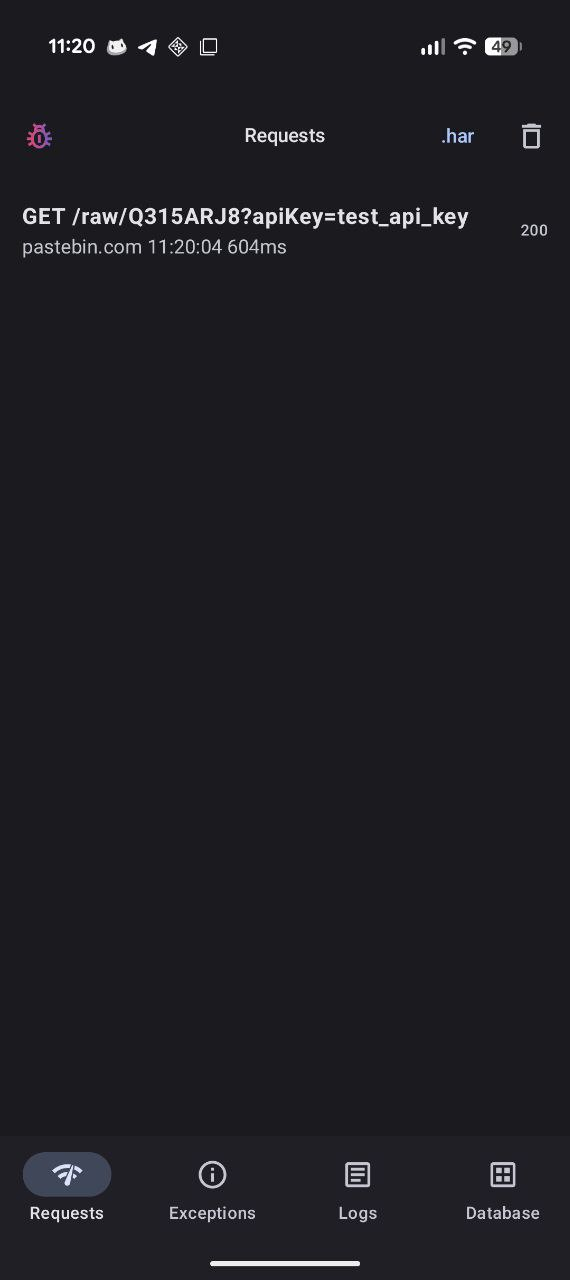
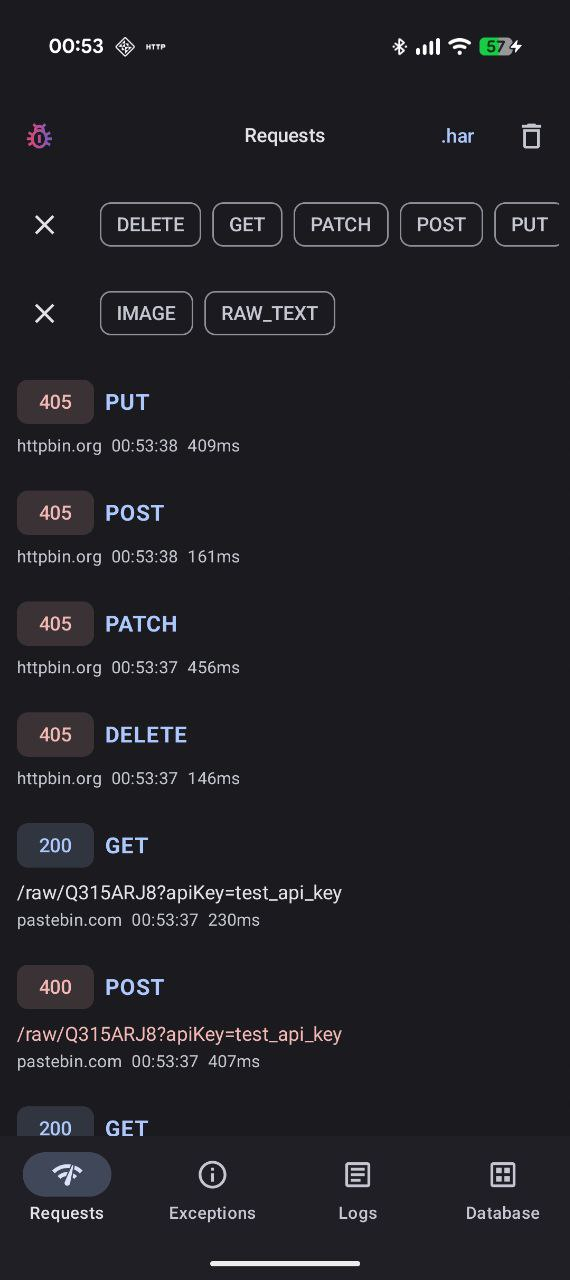
Redesigned reqeust list screen

diff --git a/axer/src/commonMain/kotlin/io/github/orioneee/internal/presentation/screens/requests/list/RequestListScreen.kt b/axer/src/commonMain/kotlin/io/github/orioneee/internal/presentation/screens/requests/list/RequestListScreen.kt
@@ -2,33 +2,50 @@ package io.github.orioneee.internal.presentation.screens.requests.list
 
 import androidx.compose.animation.AnimatedVisibility
 import androidx.compose.animation.animateColorAsState
+import androidx.compose.animation.core.animateDpAsState
 import androidx.compose.animation.core.animateIntAsState
 import androidx.compose.animation.core.tween
 import androidx.compose.animation.fadeIn
 import androidx.compose.animation.fadeOut
 import androidx.compose.animation.slideInHorizontally
 import androidx.compose.animation.slideOutHorizontally
+import androidx.compose.foundation.clickable
+import androidx.compose.foundation.layout.Arrangement
 import androidx.compose.foundation.layout.Box
+import androidx.compose.foundation.layout.Column
+import androidx.compose.foundation.layout.Row
+import androidx.compose.foundation.layout.Spacer
 import androidx.compose.foundation.layout.fillMaxSize
 import androidx.compose.foundation.layout.fillMaxWidth
+import androidx.compose.foundation.layout.height
+import androidx.compose.foundation.layout.padding
 import androidx.compose.foundation.layout.size
+import androidx.compose.foundation.layout.width
 import androidx.compose.foundation.lazy.LazyColumn
 import androidx.compose.foundation.lazy.items
 import androidx.compose.foundation.shape.RoundedCornerShape
 import androidx.compose.material.icons.Icons
 import androidx.compose.material.icons.outlined.Delete
 import androidx.compose.material.icons.outlined.WifiTetheringOff
+import androidx.compose.material3.AssistChip
+import androidx.compose.material3.AssistChipDefaults
+import androidx.compose.material3.Card
+import androidx.compose.material3.CardDefaults
 import androidx.compose.material3.CircularProgressIndicator
 import androidx.compose.material3.ExperimentalMaterial3Api
 import androidx.compose.material3.Icon
 import androidx.compose.material3.IconButton
+import androidx.compose.material3.LinearProgressIndicator
 import androidx.compose.material3.ListItem
 import androidx.compose.material3.ListItemDefaults
 import androidx.compose.material3.MaterialTheme
+import androidx.compose.material3.Surface
 import androidx.compose.material3.Text
 import androidx.compose.material3.TextButton
 import androidx.compose.runtime.Composable
 import androidx.compose.runtime.collectAsState
+import androidx.compose.runtime.getValue
+import androidx.compose.ui.Alignment
 import androidx.compose.ui.Modifier
 import androidx.compose.ui.draw.clip
 import androidx.compose.ui.graphics.Color
@@ -59,13 +76,37 @@ import org.koin.compose.viewmodel.koinViewModel
 import org.koin.core.parameter.parametersOf
 
 internal class RequestListScreen() {
+
+    @Composable
+    private fun StatusChip(request: Transaction) {
+        val status = request.responseStatus
+        val color = when {
+            request.isInProgress() -> MaterialTheme.colorScheme.secondary
+            status != null && status in 200..299 -> MaterialTheme.colorScheme.primary
+            status != null && status in 300..399 -> MaterialTheme.colorScheme.tertiary
+            status != null && status >= 400 -> MaterialTheme.colorScheme.error
+            else -> MaterialTheme.colorScheme.outline
+        }
+        AssistChip(
+            onClick = { },
+            label = {
+                Text(status?.toString() ?: if (request.isInProgress()) "…" else "—")
+            },
+            colors = AssistChipDefaults.assistChipColors(
+                containerColor = color.copy(alpha = 0.15f),
+                labelColor = color
+            ),
+            border = null
+        )
+    }
+
     @Composable
     fun RequestCard(
         isSelected: Boolean,
         request: Transaction,
         onClick: () -> Unit,
     ) {
-        val animatedContainerColor = animateColorAsState(
+        val animatedContainerColor by animateColorAsState(
             targetValue = if (isSelected) {
                 MaterialTheme.colorScheme.primaryContainer
             } else {
@@ -73,60 +114,76 @@ internal class RequestListScreen() {
             },
             label = "RequestCardColorAnimation"
         )
-        val animatedFontWeight = animateIntAsState(if (request.isViewed) 400 else 700)
-        ListItem(
-            colors = ListItemDefaults.colors(containerColor = animatedContainerColor.value),
-            modifier = Modifier.Companion
-                .clip(RoundedCornerShape(16.dp))
-                .clickableWithoutRipple {
-                    onClick()
-                },
-            headlineContent = {
-                val annotatedString = buildAnnotatedString {
-                    withStyle(
-                        style = SpanStyle(
-                            fontWeight = FontWeight.Companion.Bold
-                        )
-                    ) {
-                        append(request.method)
-                    }
-                    append(" ${request.path}")
-                }
-                Text(
-                    annotatedString,
-                    color = if (
-                        request.error != null ||
-                        (request.responseStatus != null && request.isErrorByStatusCode())
-                    ) MaterialTheme.colorScheme.error else Color.Companion.Unspecified,
-                    maxLines = 3,
-                    overflow = TextOverflow.Companion.Ellipsis,
-                    fontWeight = FontWeight(animatedFontWeight.value)
+
+        val animatedElevation by animateDpAsState(
+            targetValue = if (isSelected) 6.dp else 2.dp,
+            label = "CardElevationAnim"
+        )
+
+        Card(
+            modifier = Modifier
+                .fillMaxWidth()
+                .clip(RoundedCornerShape(20.dp))
+                .clickable { onClick() },
+            colors = CardDefaults.cardColors(containerColor = animatedContainerColor),
+            elevation = CardDefaults.cardElevation(defaultElevation = animatedElevation)
+        ) {
+            Column(
+                modifier = Modifier.padding(
+                    vertical = 8.dp,
+                     horizontal = 12.dp,
                 )
-            },
-            supportingContent = {
-                val string = StringBuilder()
-                string.append("${request.host} ${request.sendTime.formateAsTime()} ")
-                request.error?.let {
-                    string.append(it.name)
-                }
-                if (request.isFinished()) {
-                    string.append("${request.totalTime}ms")
+            ) {
+                Row(
+                    verticalAlignment = Alignment.CenterVertically,
+                    horizontalArrangement = Arrangement.SpaceBetween,
+                    modifier = Modifier.fillMaxWidth()
+                ) {
+                    Row(verticalAlignment = Alignment.CenterVertically) {
+                        StatusChip(request)
+                        Spacer(Modifier.width(8.dp))
+                        Text(
+                            text = request.method,
+                            fontWeight = FontWeight.Bold,
+                            color = MaterialTheme.colorScheme.primary
+                        )
+                    }
+
+                    if (request.isInProgress()) {
+                        LinearProgressIndicator(
+                            modifier = Modifier
+                                .width(60.dp)
+                                .height(4.dp),
+                            color = MaterialTheme.colorScheme.secondary
+                        )
+                    }
                 }
 
-                Text(string.toString())
-            },
-            trailingContent = {
-                if (request.isInProgress()) {
-                    CircularProgressIndicator(
-                        modifier = Modifier.Companion
-                            .size(24.dp),
-                        strokeWidth = 2.dp,
+                if(request.path.isNotBlank()){
+                    Text(
+                        text = request.path,
+                        color = if (
+                            request.error != null ||
+                            (request.responseStatus != null && request.isErrorByStatusCode())
+                        ) MaterialTheme.colorScheme.error else MaterialTheme.colorScheme.onSurface,
+                        maxLines = 2,
+                        style = MaterialTheme.typography.bodyMedium
                     )
-                } else {
-                    Text(request.responseStatus?.toString() ?: "")
+                    Spacer(Modifier.height(2.dp))
                 }
+
+                val infoText = buildString {
+                    append("${request.host}  ${request.sendTime.formateAsTime()}  ")
+                    request.error?.let { append(it.name) }
+                    if (request.isFinished()) append("${request.totalTime}ms")
+                }
+
+                Text(
+                    text = infoText,
+                    style = MaterialTheme.typography.bodySmall.copy(color = MaterialTheme.colorScheme.onSurfaceVariant)
+                )
             }
-        )
+        }
     }
 
 
@@ -200,54 +257,48 @@ internal class RequestListScreen() {
                 modifier = Modifier
                     .fillMaxSize()
             ) {
-                item {
-                    if (methodFilters.value.isNotEmpty()) {
-                        FilterRow(
-                            items = methodFilters.value,
-                            selectedItems = selectedMethods.value,
-                            onItemClicked = { method ->
-                                viewModel.toggleMethodFilter(method)
-                            },
-                            onClear = {
-                                viewModel.clearMethodFilters()
-                            },
-                            getItemString = { it }
-                        )
-                    }
-                }
-                item {
-                    if (typeFilters.value.isNotEmpty()) {
-                        FilterRow(
-                            items = typeFilters.value,
-                            selectedItems = selectedBodyTypes.value,
-                            onItemClicked = { filter ->
-                                viewModel.toggleTypeFilter(filter)
-                            },
-                            onClear = {
-                                viewModel.clearTypeFilters()
-                            },
-                            getItemString = { it.name }
-                        )
+                stickyHeader {
+                    Surface {
+                        Column(
+                            modifier = Modifier.fillMaxWidth()
+                        ) {
+                            if (methodFilters.value.isNotEmpty()) {
+                                FilterRow(
+                                    items = methodFilters.value,
+                                    selectedItems = selectedMethods.value,
+                                    onItemClicked = { method ->
+                                        viewModel.toggleMethodFilter(method)
+                                    },
+                                    onClear = {
+                                        viewModel.clearMethodFilters()
+                                    },
+                                    getItemString = { it }
+                                )
+                            }
+                            if (typeFilters.value.isNotEmpty()) {
+                                FilterRow(
+                                    items = typeFilters.value,
+                                    selectedItems = selectedBodyTypes.value,
+                                    onItemClicked = { filter ->
+                                        viewModel.toggleTypeFilter(filter)
+                                    },
+                                    onClear = {
+                                        viewModel.clearTypeFilters()
+                                    },
+                                    getItemString = { it.name }
+                                )
+                            }
+                        }
                     }
                 }
                 items(requests.value) { item ->
-                    Box(
-                        modifier = Modifier.Companion
-                            .fillMaxWidth()
-                            .animateItem(
-                                fadeInSpec = tween(300),
-                                fadeOutSpec = tween(300),
-                                placementSpec = tween(300)
-                            )
-                    ) {
-                        RequestCard(
-                            isSelected = item.id == selectedRequestId,
-                            request = item,
-                            onClick = {
-                                onClickToRequestDetails(item)
-                            }
-                        )
-                    }
+                    RequestCard(
+                        isSelected = item.id == selectedRequestId,
+                        request = item,
+                        onClick = {
+                            onClickToRequestDetails(item)
+                        }
+                    )
                 }
             }
         }

diff --git a/README.md b/README.md
@@ -79,16 +79,16 @@ Axer is inspired by [Chucker](https://github.com/ChuckerTeam/chucker) and [KtorM
 
 ## Installation
 
-Add the dependencies to your project (`1.2.0-beta04` is the latest version; check [Releases](https://github.com/orioneee/Axer/releases)):
+Add the dependencies to your project (`1.2.0-beta05` is the latest version; check [Releases](https://github.com/orioneee/Axer/releases)):
 
 ```kotlin
-implementation("io.github.orioneee:axer:1.2.0-beta04")
+implementation("io.github.orioneee:axer:1.2.0-beta05")
 ```
 
 For production, use the no-op variant to avoid runtime overhead and source changes:
 
 ```kotlin
-implementation("io.github.orioneee:axer-no-op:1.2.0-beta04")
+implementation("io.github.orioneee:axer-no-op:1.2.0-beta05")
 ```
 
 No-op maintains the same API, so switching in/out is seamless.
